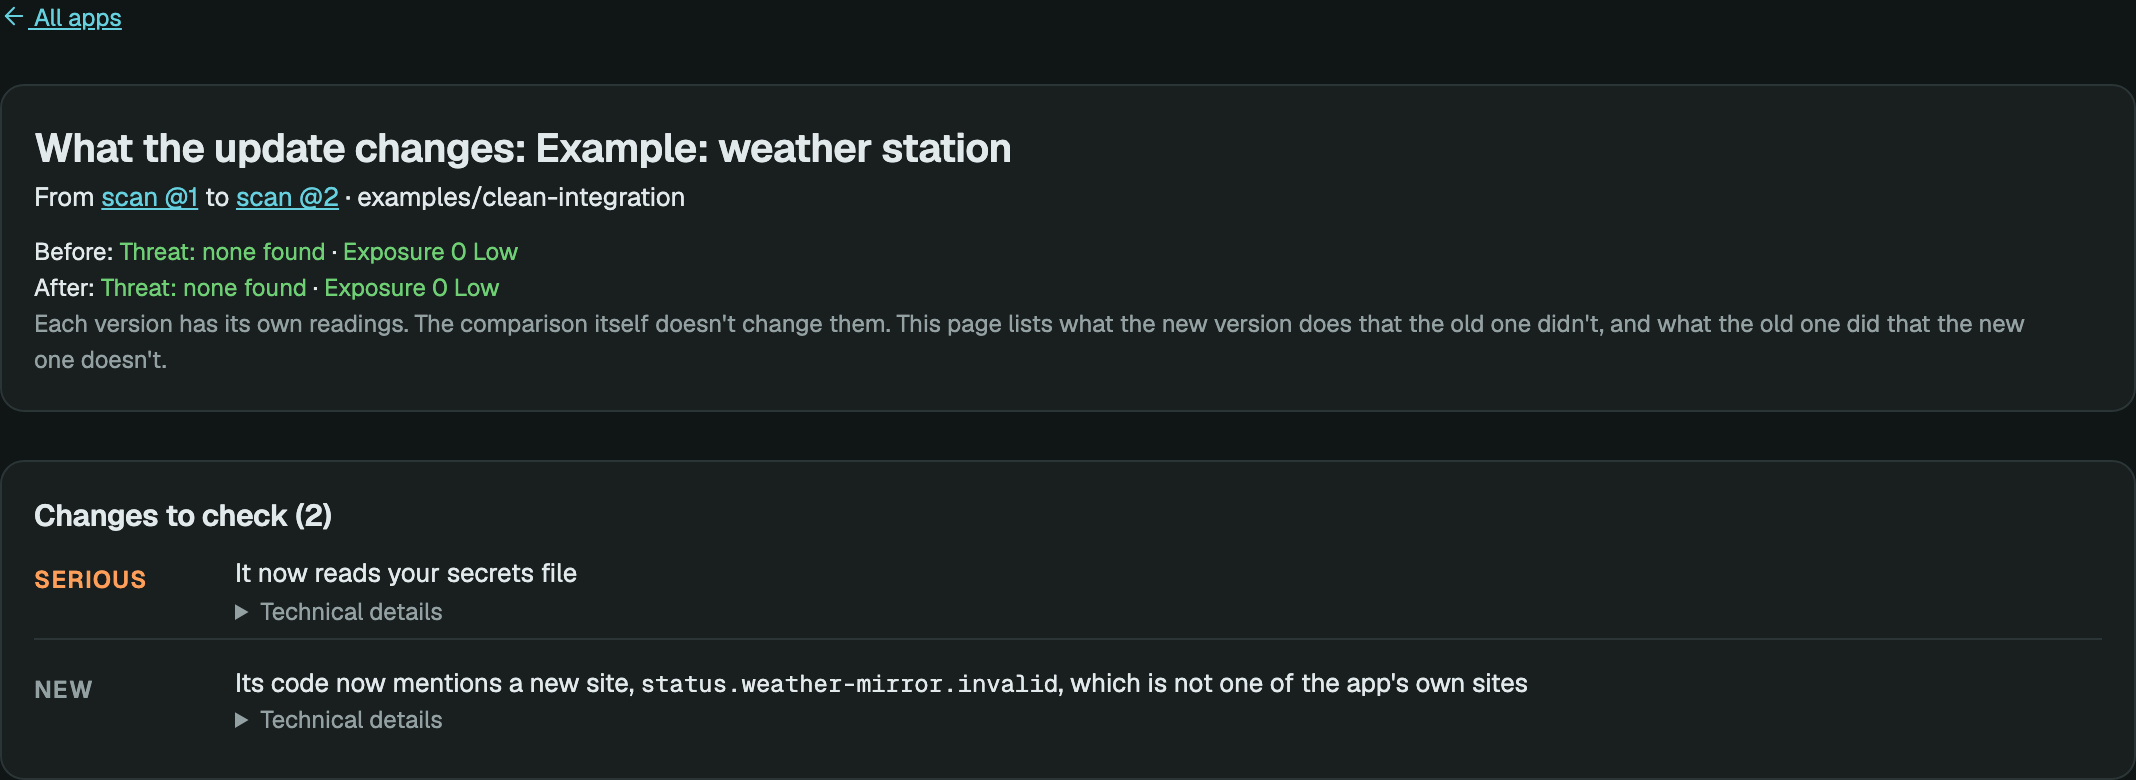
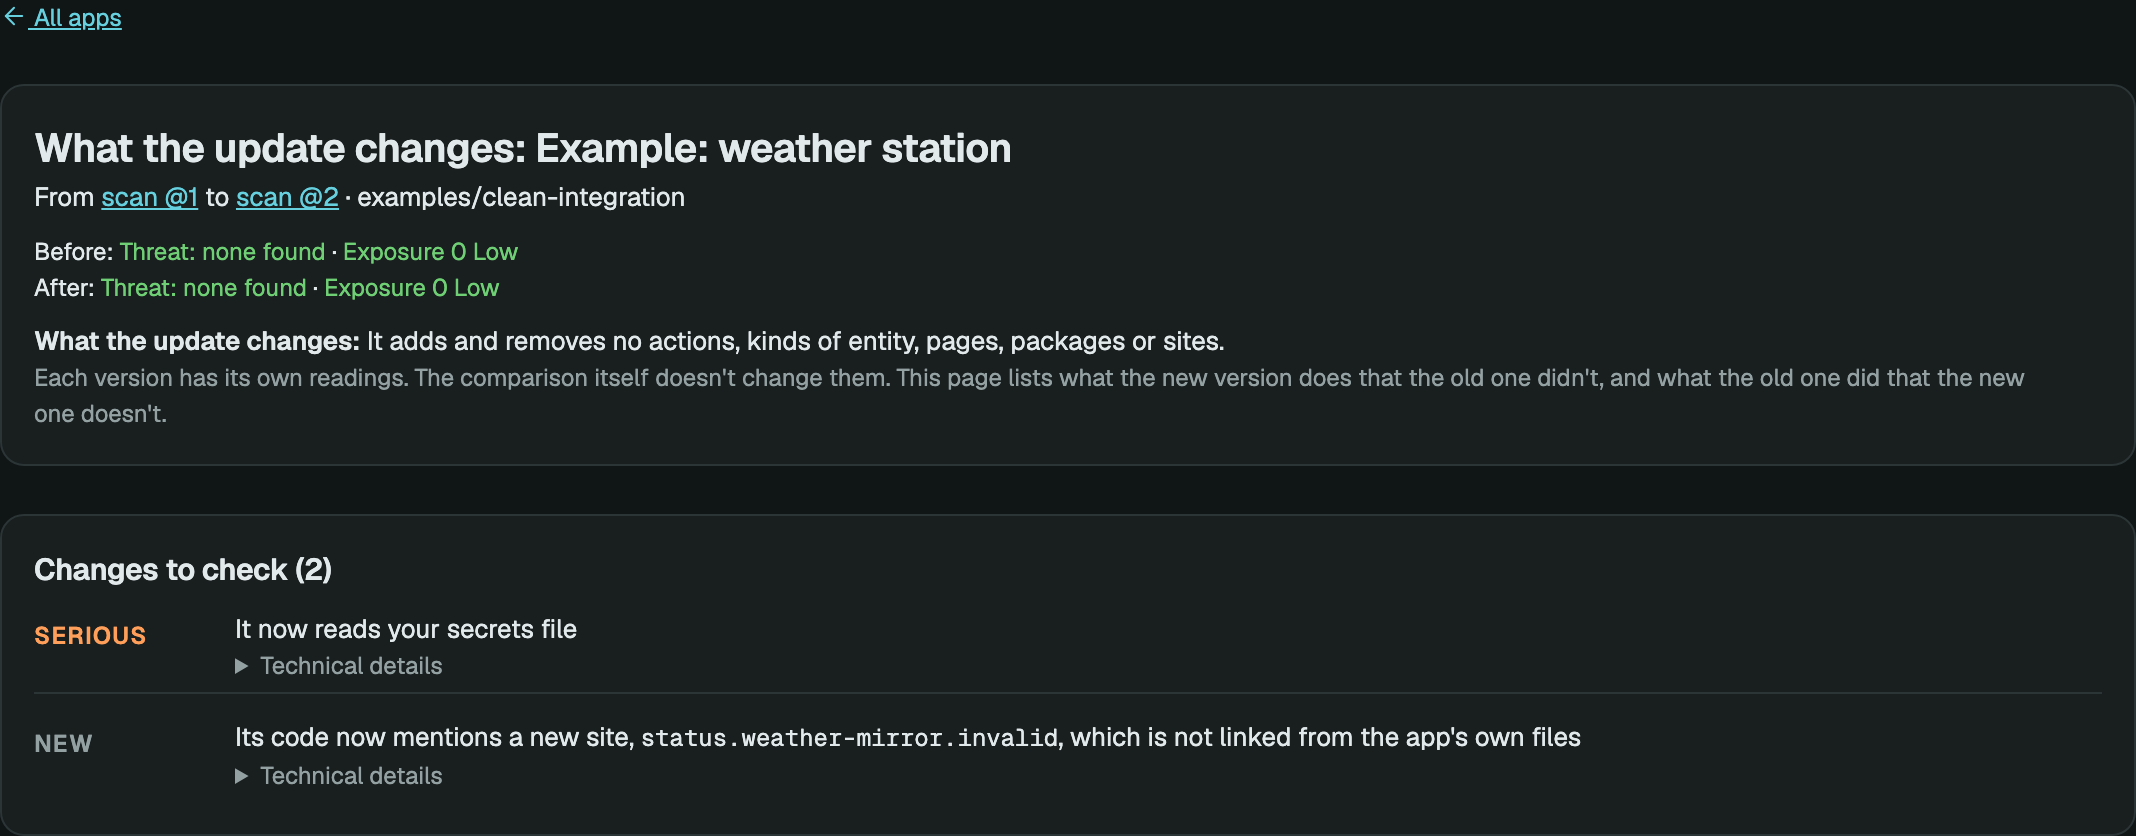
Screenshots retaken on 0.15.0; the list's legend in US spelling
The docs' screenshots now show 0.15.0 (they said 0.14.1) and the
legend reads "What the readings and colors mean". The recipe in
docs/screenshots/README.md drops --offline, which skipped the
dependency checks and left every app with requirements Unfinished, and
says how to pass Playwright's own browser.

diff --git a/src/sniff_test/ui.py b/src/sniff_test/ui.py
@@ -1209,7 +1209,7 @@ def render_grid(base: str, cards: list[Card], v: View | None = None, lead: str =
     else:
         body = '<div class="grid">' + "".join(card_html(base, c) for c in window) + "</div>"
     legend = (
-        '<details class="legend-d"><summary>What the readings and colours mean</summary>'
+        '<details class="legend-d"><summary>What the readings and colors mean</summary>'
         '<p class="small">Threat counts only signs of malicious behavior: none found, '
         "possible, or found. Exposure, from 0 to 10, counts what lets someone who isn't an "
         "administrator in: pages that skip Home Assistant's login, login tokens it may hand "

diff --git a/docs/screenshots/README.md b/docs/screenshots/README.md
@@ -13,11 +13,15 @@ answer differently.
 To make them again:
 
     for f in evil_integration evil_card hidden_card clean_integration clean_integration_v2 oauth_redirects petal_garden; do
-      uv run sniff-test scan tests/fixtures/$f --json --offline -o /tmp/reports/$f.json
+      uv run sniff-test scan tests/fixtures/$f --json --ha-version 2026.11.2 -o /tmp/reports/$f.json
     done
     uv run --with playwright python scripts/doc_shots.py --reports /tmp/reports \
       --answers docs/screenshots/ai-answers.json --out /tmp/doc-shots --shots
     # then copy the chosen PNGs into docs/images/
+
+Don't add `--offline`: it skips the dependency checks, so every app with requirements
+shows as Unfinished. The dependency checks ask PyPI about the test apps' made-up
+requirements. Without Chrome, pass Playwright's own browser with `--chromium`.
 
 `disclosure-light.png` and `disclosure-dark.png` are in An app's page and on the
 disclosure.yaml spec page on the website. They show the made-up Petal Garden
